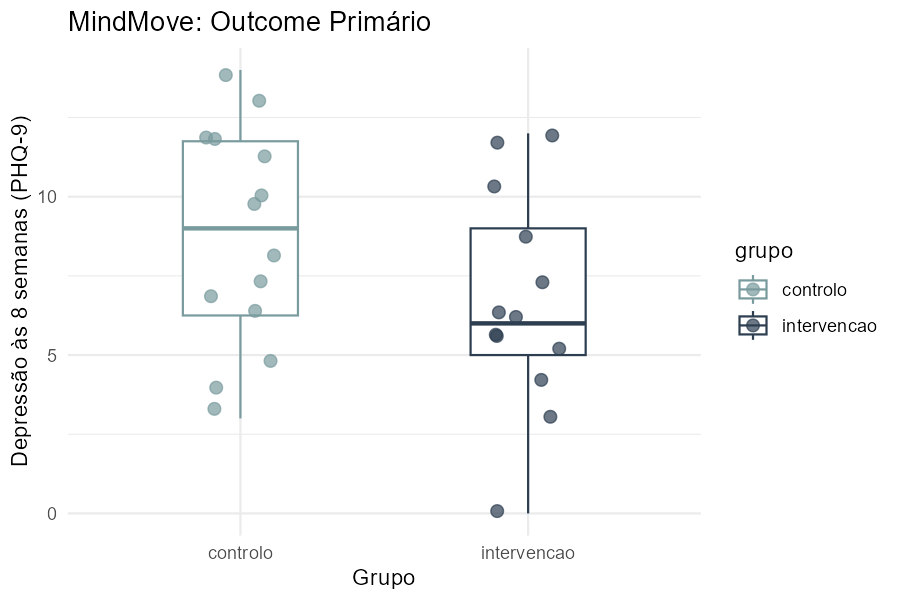
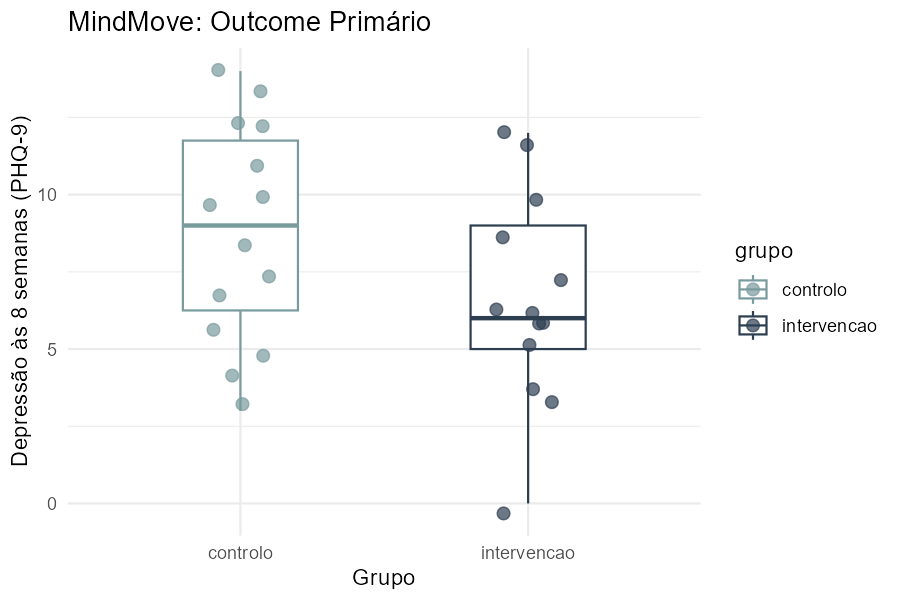
render

diff --git a/docs/resultados.html b/docs/resultados.html
@@ -161,23 +161,23 @@ ul.task-list li input[type="checkbox"] {
 <p>Aqui estão os resultados da nossa análise estatística sobre o projeto MindMove:</p>
 <div class="cell">
 <div class="cell-output-display">
-<div id="euuzdweahe" style="padding-left:0px;padding-right:0px;padding-top:10px;padding-bottom:10px;overflow-x:auto;overflow-y:auto;width:auto;height:auto;">
-<style>#euuzdweahe table {
+<div id="czmwmooeyf" style="padding-left:0px;padding-right:0px;padding-top:10px;padding-bottom:10px;overflow-x:auto;overflow-y:auto;width:auto;height:auto;">
+<style>#czmwmooeyf table {
   font-family: system-ui, 'Segoe UI', Roboto, Helvetica, Arial, sans-serif, 'Apple Color Emoji', 'Segoe UI Emoji', 'Segoe UI Symbol', 'Noto Color Emoji';
   -webkit-font-smoothing: antialiased;
   -moz-osx-font-smoothing: grayscale;
 }
 
-#euuzdweahe thead, #euuzdweahe tbody, #euuzdweahe tfoot, #euuzdweahe tr, #euuzdweahe td, #euuzdweahe th {
+#czmwmooeyf thead, #czmwmooeyf tbody, #czmwmooeyf tfoot, #czmwmooeyf tr, #czmwmooeyf td, #czmwmooeyf th {
   border-style: none;
 }
 
-#euuzdweahe p {
+#czmwmooeyf p {
   margin: 0;
   padding: 0;
 }
 
-#euuzdweahe .gt_table {
+#czmwmooeyf .gt_table {
   display: table;
   border-collapse: collapse;
   line-height: normal;
@@ -203,12 +203,12 @@ ul.task-list li input[type="checkbox"] {
   border-left-color: #D3D3D3;
 }
 
-#euuzdweahe .gt_caption {
+#czmwmooeyf .gt_caption {
   padding-top: 4px;
   padding-bottom: 4px;
 }
 
-#euuzdweahe .gt_title {
+#czmwmooeyf .gt_title {
   color: #333333;
   font-size: 125%;
   font-weight: initial;
@@ -220,7 +220,7 @@ ul.task-list li input[type="checkbox"] {
   border-bottom-width: 0;
 }
 
-#euuzdweahe .gt_subtitle {
+#czmwmooeyf .gt_subtitle {
   color: #333333;
   font-size: 85%;
   font-weight: initial;
@@ -232,7 +232,7 @@ ul.task-list li input[type="checkbox"] {
   border-top-width: 0;
 }
 
-#euuzdweahe .gt_heading {
+#czmwmooeyf .gt_heading {
   background-color: #FFFFFF;
   text-align: center;
   border-bottom-color: #FFFFFF;
@@ -244,13 +244,13 @@ ul.task-list li input[type="checkbox"] {
   border-right-color: #D3D3D3;
 }
 
-#euuzdweahe .gt_bottom_border {
+#czmwmooeyf .gt_bottom_border {
   border-bottom-style: solid;
   border-bottom-width: 2px;
   border-bottom-color: #D3D3D3;
 }
 
-#euuzdweahe .gt_col_headings {
+#czmwmooeyf .gt_col_headings {
   border-top-style: solid;
   border-top-width: 2px;
   border-top-color: #D3D3D3;
@@ -265,7 +265,7 @@ ul.task-list li input[type="checkbox"] {
   border-right-color: #D3D3D3;
 }
 
-#euuzdweahe .gt_col_heading {
+#czmwmooeyf .gt_col_heading {
   color: #333333;
   background-color: #FFFFFF;
   font-size: 100%;
@@ -285,7 +285,7 @@ ul.task-list li input[type="checkbox"] {
   overflow-x: hidden;
 }
 
-#euuzdweahe .gt_column_spanner_outer {
+#czmwmooeyf .gt_column_spanner_outer {
   color: #333333;
   background-color: #FFFFFF;
   font-size: 100%;
@@ -297,15 +297,15 @@ ul.task-list li input[type="checkbox"] {
   padding-right: 4px;
 }
 
-#euuzdweahe .gt_column_spanner_outer:first-child {
+#czmwmooeyf .gt_column_spanner_outer:first-child {
   padding-left: 0;
 }
 
-#euuzdweahe .gt_column_spanner_outer:last-child {
+#czmwmooeyf .gt_column_spanner_outer:last-child {
   padding-right: 0;
 }
 
-#euuzdweahe .gt_column_spanner {
+#czmwmooeyf .gt_column_spanner {
   border-bottom-style: solid;
   border-bottom-width: 2px;
   border-bottom-color: #D3D3D3;
@@ -317,11 +317,11 @@ ul.task-list li input[type="checkbox"] {
   width: 100%;
 }
 
-#euuzdweahe .gt_spanner_row {
+#czmwmooeyf .gt_spanner_row {
   border-bottom-style: hidden;
 }
 
-#euuzdweahe .gt_group_heading {
+#czmwmooeyf .gt_group_heading {
   padding-top: 8px;
   padding-bottom: 8px;
   padding-left: 5px;
@@ -347,7 +347,7 @@ ul.task-list li input[type="checkbox"] {
   text-align: left;
 }
 
-#euuzdweahe .gt_empty_group_heading {
+#czmwmooeyf .gt_empty_group_heading {
   padding: 0.5px;
   color: #333333;
   background-color: #FFFFFF;
@@ -362,15 +362,15 @@ ul.task-list li input[type="checkbox"] {
   vertical-align: middle;
 }
 
-#euuzdweahe .gt_from_md > :first-child {
+#czmwmooeyf .gt_from_md > :first-child {
   margin-top: 0;
 }
 
-#euuzdweahe .gt_from_md > :last-child {
+#czmwmooeyf .gt_from_md > :last-child {
   margin-bottom: 0;
 }
 
-#euuzdweahe .gt_row {
+#czmwmooeyf .gt_row {
   padding-top: 8px;
   padding-bottom: 8px;
   padding-left: 5px;
@@ -389,7 +389,7 @@ ul.task-list li input[type="checkbox"] {
   overflow-x: hidden;
 }
 
-#euuzdweahe .gt_stub {
+#czmwmooeyf .gt_stub {
   color: #333333;
   background-color: #FFFFFF;
   font-size: 100%;
@@ -402,7 +402,7 @@ ul.task-list li input[type="checkbox"] {
   padding-right: 5px;
 }
 
-#euuzdweahe .gt_stub_row_group {
+#czmwmooeyf .gt_stub_row_group {
   color: #333333;
   background-color: #FFFFFF;
   font-size: 100%;
@@ -416,15 +416,15 @@ ul.task-list li input[type="checkbox"] {
   vertical-align: top;
 }
 
-#euuzdweahe .gt_row_group_first td {
+#czmwmooeyf .gt_row_group_first td {
   border-top-width: 2px;
 }
 
-#euuzdweahe .gt_row_group_first th {
+#czmwmooeyf .gt_row_group_first th {
   border-top-width: 2px;
 }
 
-#euuzdweahe .gt_summary_row {
+#czmwmooeyf .gt_summary_row {
   color: #333333;
   background-color: #FFFFFF;
   text-transform: inherit;
@@ -434,16 +434,16 @@ ul.task-list li input[type="checkbox"] {
   padding-right: 5px;
 }
 
-#euuzdweahe .gt_first_summary_row {
+#czmwmooeyf .gt_first_summary_row {
   border-top-style: solid;
   border-top-color: #D3D3D3;
 }
 
-#euuzdweahe .gt_first_summary_row.thick {
+#czmwmooeyf .gt_first_summary_row.thick {
   border-top-width: 2px;
 }
 
-#euuzdweahe .gt_last_summary_row {
+#czmwmooeyf .gt_last_summary_row {
   padding-top: 8px;
   padding-bottom: 8px;
   padding-left: 5px;
@@ -453,7 +453,7 @@ ul.task-list li input[type="checkbox"] {
   border-bottom-color: #D3D3D3;
 }
 
-#euuzdweahe .gt_grand_summary_row {
+#czmwmooeyf .gt_grand_summary_row {
   color: #333333;
   background-color: #FFFFFF;
   text-transform: inherit;
@@ -463,7 +463,7 @@ ul.task-list li input[type="checkbox"] {
   padding-right: 5px;
 }
 
-#euuzdweahe .gt_first_grand_summary_row {
+#czmwmooeyf .gt_first_grand_summary_row {
   padding-top: 8px;
   padding-bottom: 8px;
   padding-left: 5px;
@@ -473,7 +473,7 @@ ul.task-list li input[type="checkbox"] {
   border-top-color: #D3D3D3;
 }
 
-#euuzdweahe .gt_last_grand_summary_row_top {
+#czmwmooeyf .gt_last_grand_summary_row_top {
   padding-top: 8px;
   padding-bottom: 8px;
   padding-left: 5px;
@@ -483,11 +483,11 @@ ul.task-list li input[type="checkbox"] {
   border-bottom-color: #D3D3D3;
 }
 
-#euuzdweahe .gt_striped {
+#czmwmooeyf .gt_striped {
   background-color: rgba(128, 128, 128, 0.05);
 }
 
-#euuzdweahe .gt_table_body {
+#czmwmooeyf .gt_table_body {
   border-top-style: solid;
   border-top-width: 2px;
   border-top-color: #D3D3D3;
@@ -496,7 +496,7 @@ ul.task-list li input[type="checkbox"] {
   border-bottom-color: #D3D3D3;
 }
 
-#euuzdweahe .gt_footnotes {
+#czmwmooeyf .gt_footnotes {
   color: #333333;
   background-color: #FFFFFF;
   border-bottom-style: none;
@@ -510,7 +510,7 @@ ul.task-list li input[type="checkbox"] {
   border-right-color: #D3D3D3;
 }
 
-#euuzdweahe .gt_footnote {
+#czmwmooeyf .gt_footnote {
   margin: 0px;
   font-size: 90%;
   padding-top: 4px;
@@ -519,7 +519,7 @@ ul.task-list li input[type="checkbox"] {
   padding-right: 5px;
 }
 
-#euuzdweahe .gt_sourcenotes {
+#czmwmooeyf .gt_sourcenotes {
   color: #333333;
   background-color: #FFFFFF;
   border-bottom-style: none;
@@ -533,7 +533,7 @@ ul.task-list li input[type="checkbox"] {
   border-right-color: #D3D3D3;
 }
 
-#euuzdweahe .gt_sourcenote {
+#czmwmooeyf .gt_sourcenote {
   font-size: 90%;
   padding-top: 4px;
   padding-bottom: 4px;
@@ -541,72 +541,72 @@ ul.task-list li input[type="checkbox"] {
   padding-right: 5px;
 }
 
-#euuzdweahe .gt_left {
+#czmwmooeyf .gt_left {
   text-align: left;
 }
 
-#euuzdweahe .gt_center {
+#czmwmooeyf .gt_center {
   text-align: center;
 }
 
-#euuzdweahe .gt_right {
+#czmwmooeyf .gt_right {
   text-align: right;
   font-variant-numeric: tabular-nums;
 }
 
-#euuzdweahe .gt_font_normal {
+#czmwmooeyf .gt_font_normal {
   font-weight: normal;
 }
 
-#euuzdweahe .gt_font_bold {
+#czmwmooeyf .gt_font_bold {
   font-weight: bold;
 }
 
-#euuzdweahe .gt_font_italic {
+#czmwmooeyf .gt_font_italic {
   font-style: italic;
 }
 
-#euuzdweahe .gt_super {
+#czmwmooeyf .gt_super {
   font-size: 65%;
 }
 
-#euuzdweahe .gt_footnote_marks {
+#czmwmooeyf .gt_footnote_marks {
   font-size: 75%;
   vertical-align: 0.4em;
   position: initial;
 }
 
-#euuzdweahe .gt_asterisk {
+#czmwmooeyf .gt_asterisk {
   font-size: 100%;
   vertical-align: 0;
 }
 
-#euuzdweahe .gt_indent_1 {
+#czmwmooeyf .gt_indent_1 {
   text-indent: 5px;
 }
 
-#euuzdweahe .gt_indent_2 {
+#czmwmooeyf .gt_indent_2 {
   text-indent: 10px;
 }
 
-#euuzdweahe .gt_indent_3 {
+#czmwmooeyf .gt_indent_3 {
   text-indent: 15px;
 }
 
-#euuzdweahe .gt_indent_4 {
+#czmwmooeyf .gt_indent_4 {
   text-indent: 20px;
 }
 
-#euuzdweahe .gt_indent_5 {
+#czmwmooeyf .gt_indent_5 {
   text-indent: 25px;
 }
 
-#euuzdweahe .katex-display {
+#czmwmooeyf .katex-display {
   display: inline-flex !important;
   margin-bottom: 0.75em !important;
 }
 
-#euuzdweahe div.Reactable > div.rt-table > div.rt-thead > div.rt-tr.rt-tr-group-header > div.rt-th-group:after {
+#czmwmooeyf div.Reactable > div.rt-table > div.rt-thead > div.rt-tr.rt-tr-group-header > div.rt-th-group:after {
   height: 0px !important;
 }
 </style>